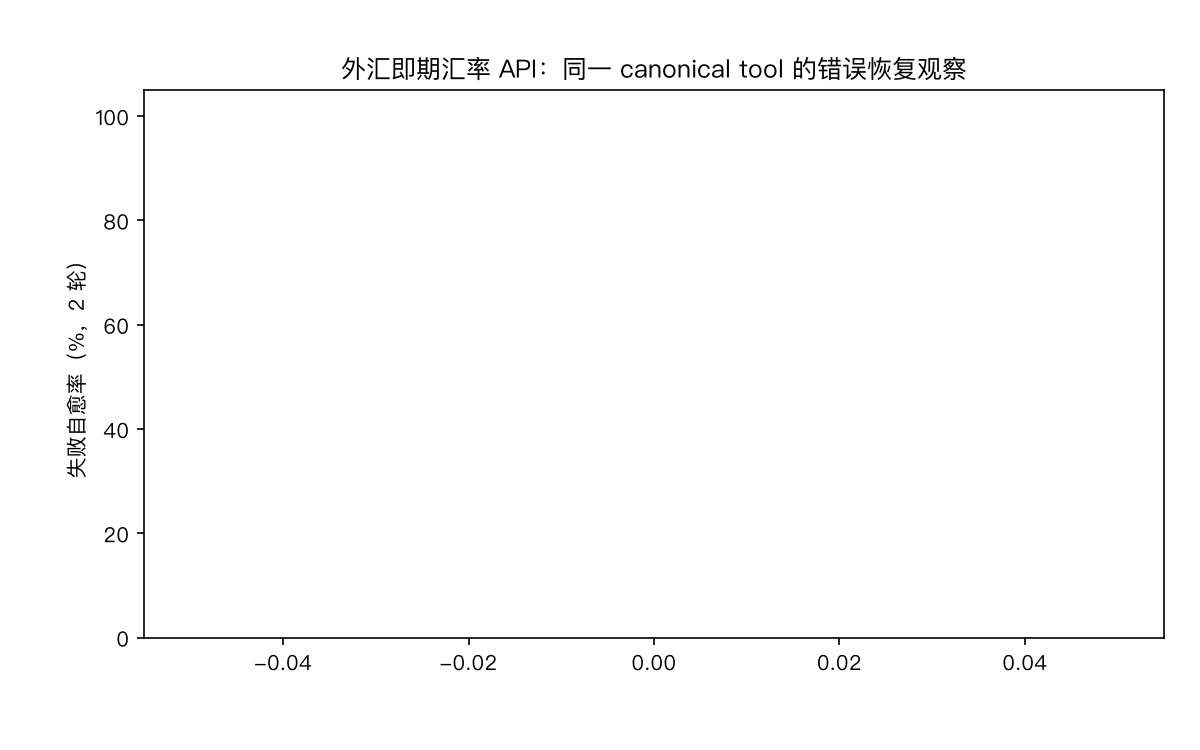
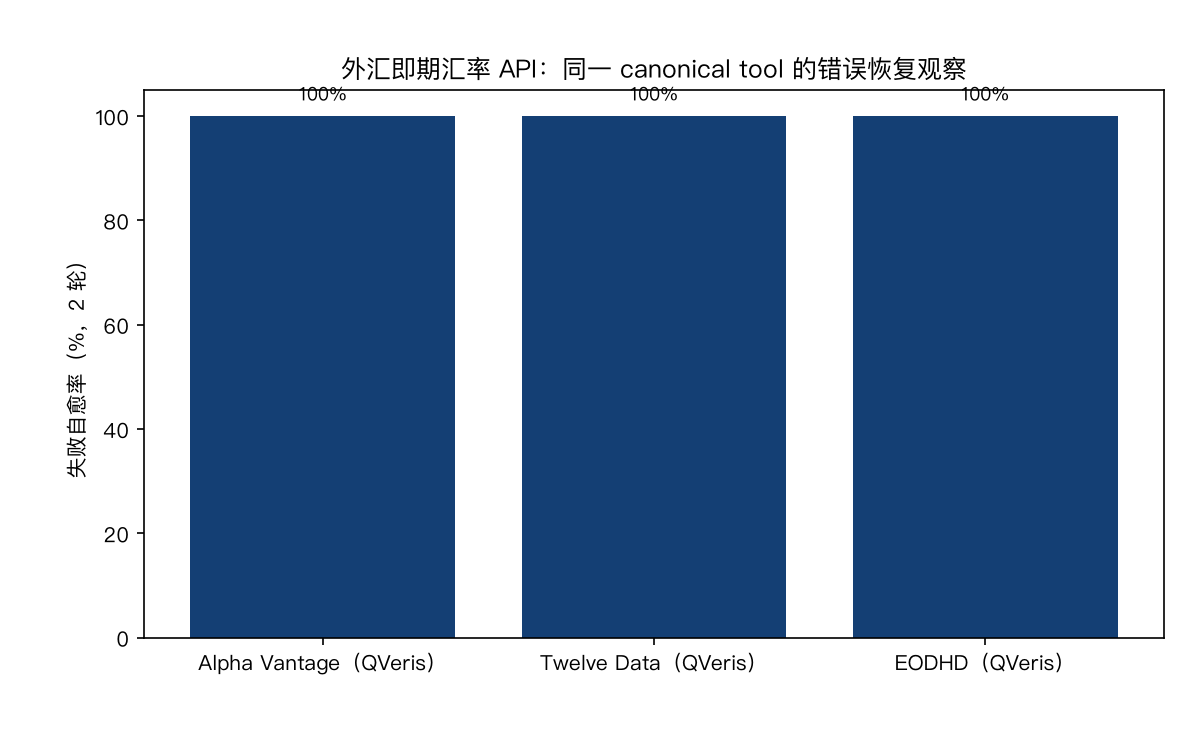
fix: restore historical QVeris FX observations

diff --git a/tests/scripts/test_fx_guide_fixtures.py b/tests/scripts/test_fx_guide_fixtures.py
@@ -133,10 +133,13 @@ def test_ac5_article_manifest_and_charts_exist() -> None:
         "released-observations",
     }
     publication_manifest = yaml.safe_load(manifest.read_text(encoding="utf-8"))
-    assert all(
-        path["evidence_state"] == "evidence_insufficient"
+    states = {
+        path["access_path_id"]: path["evidence_state"]
         for path in publication_manifest["access_paths"]
-    )
+    }
+    assert sum(state == "released" for state in states.values()) == 4
+    assert states["ifind-native-mcp"] == "evidence_insufficient"
+    assert states["nbp-pl-exchange-rates-native"] == "evidence_insufficient"
 
 
 def test_ac5_article_separates_access_paths_and_price_facts() -> None:
@@ -165,10 +168,15 @@ def test_ac5_released_fx_observations_keep_paths_distinct() -> None:
         ("nbp-pl", "nbp-pl-exchange-rates-native"),
     } <= keys
     for row in observations:
-        assert row["evidence_state"] == "evidence_insufficient"
-        assert "latency_ms" not in row
-        assert "qveris_credits" not in row
-        assert "direct_test" not in row
+        if row["path_type"] == "qveris_connector":
+            assert row["evidence_state"] == "released"
+            assert row["latency_ms"] > 0
+            assert row["qveris_credits"] >= 0
+            assert row["direct_test"] == {"passed": 4, "total": 4}
+        else:
+            assert row["evidence_state"] == "evidence_insufficient"
+            assert "latency_ms" not in row
+            assert "qveris_credits" not in row
 
 
 def test_ac5b_fx_dialect_tolerance_fixture_loads() -> None:

diff --git a/scripts/render_cap_guide_charts.py b/scripts/render_cap_guide_charts.py
@@ -313,7 +313,7 @@ def main(argv: list[str] | None = None) -> int:
             va="center",
             fontsize=12,
         )
-    ax.set_title(f"{guide_label}：尚无符合 release 规范的货币覆盖事实")
+    ax.set_title(f"{guide_label}：历史公开观测与工具契约中的货币覆盖")
     fig.tight_layout()
     path = args.output_dir / "chart-market-coverage.png"
     fig.savefig(path, dpi=150)
